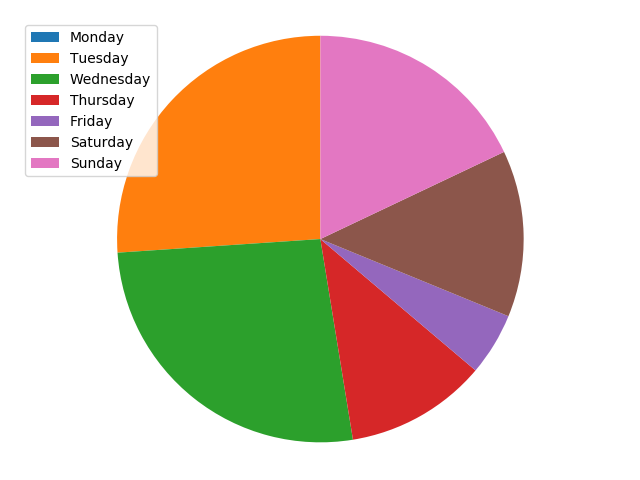
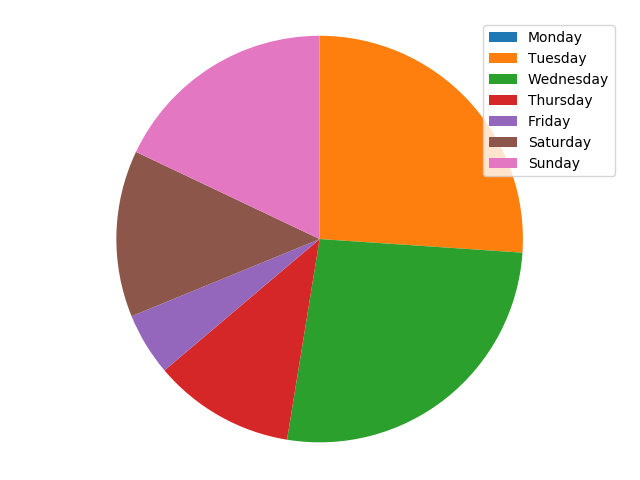
Labels are now added in clockwise order

diff --git a/graphs/PieChart.py b/graphs/PieChart.py
@@ -7,8 +7,10 @@ def make_pie_chart(labels,
                    filename):
     labels = labels
     sizes = data
-    patches, texts = plt.pie(sizes, startangle=90)
+    patches, texts = plt.pie(sizes,
+                             startangle=90,
+                             counterclock=False)
     plt.legend(patches, labels, loc="best")
-    plt.axis('equal')
+    plt.axis('equal')  # ensures a circle
     plt.tight_layout()
     plt.savefig("graphImages/pieCharts/{}.png".format(filename))

diff --git a/visualise_data/day_of_week/day_of_week_pie.py b/visualise_data/day_of_week/day_of_week_pie.py
@@ -14,7 +14,9 @@ from visualise_data.day_of_week.manager import to_hours
 from visualise_data.day_of_week.manager import labels
 
 
-def _make_pie_chart(data,filename):
+def _make_pie_chart(data, filename):
+    # TODO: sorting labels correctly: if I reverse them it looks bad on labels
+    # on side
     make_pie_chart(
         labels=labels(),
         data=data,
